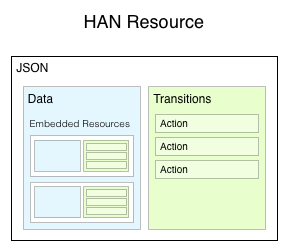
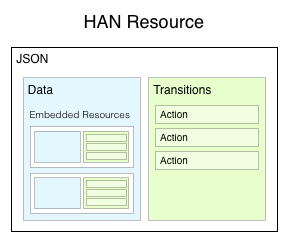
Updated the diagrams & moved some content around.

diff --git a/readme.md b/readme.md
@@ -2,8 +2,6 @@
 
 ### A specification for communicating hypermedia API navigation concerns
 
-![HAN Resource](https://raw2.github.com/hopsoft/han/master/resource.png)
-
 HAN treats your API as a state machine.
 Think of each rendered resource as a state that can transition to another state.
 Consider the following example.
@@ -11,9 +9,9 @@ Consider the following example.
 
 ![User Resources & Transitions](https://raw2.github.com/hopsoft/han/master/user-example.png)
 
-* The **created-user** supports the `update` & `delete` transitions.
-* The **updated-user** supports the `delete` transition.
-* The **deleted-user** doesn't support any transitions.
+* The created state supports the `update` & `delete` transitions.
+* The updated state supports the `delete` transition.
+* The deleted state doesn't support any transitions.
 
 **Note**: The User resource is actually the same across all states.
 The difference being the available transitions from each state.
@@ -62,5 +60,14 @@ The difference being the available transitions from each state.
   message: "",    // the error message
   backtrace: [],  // [the error's backtrace]
   inner_error: {} // [the inner error]
+}
+```
+
+## Complete Example
+
+![HAN Resource](https://raw2.github.com/hopsoft/han/master/resource.png)
+
+```javascript
+{
 }
 ```
